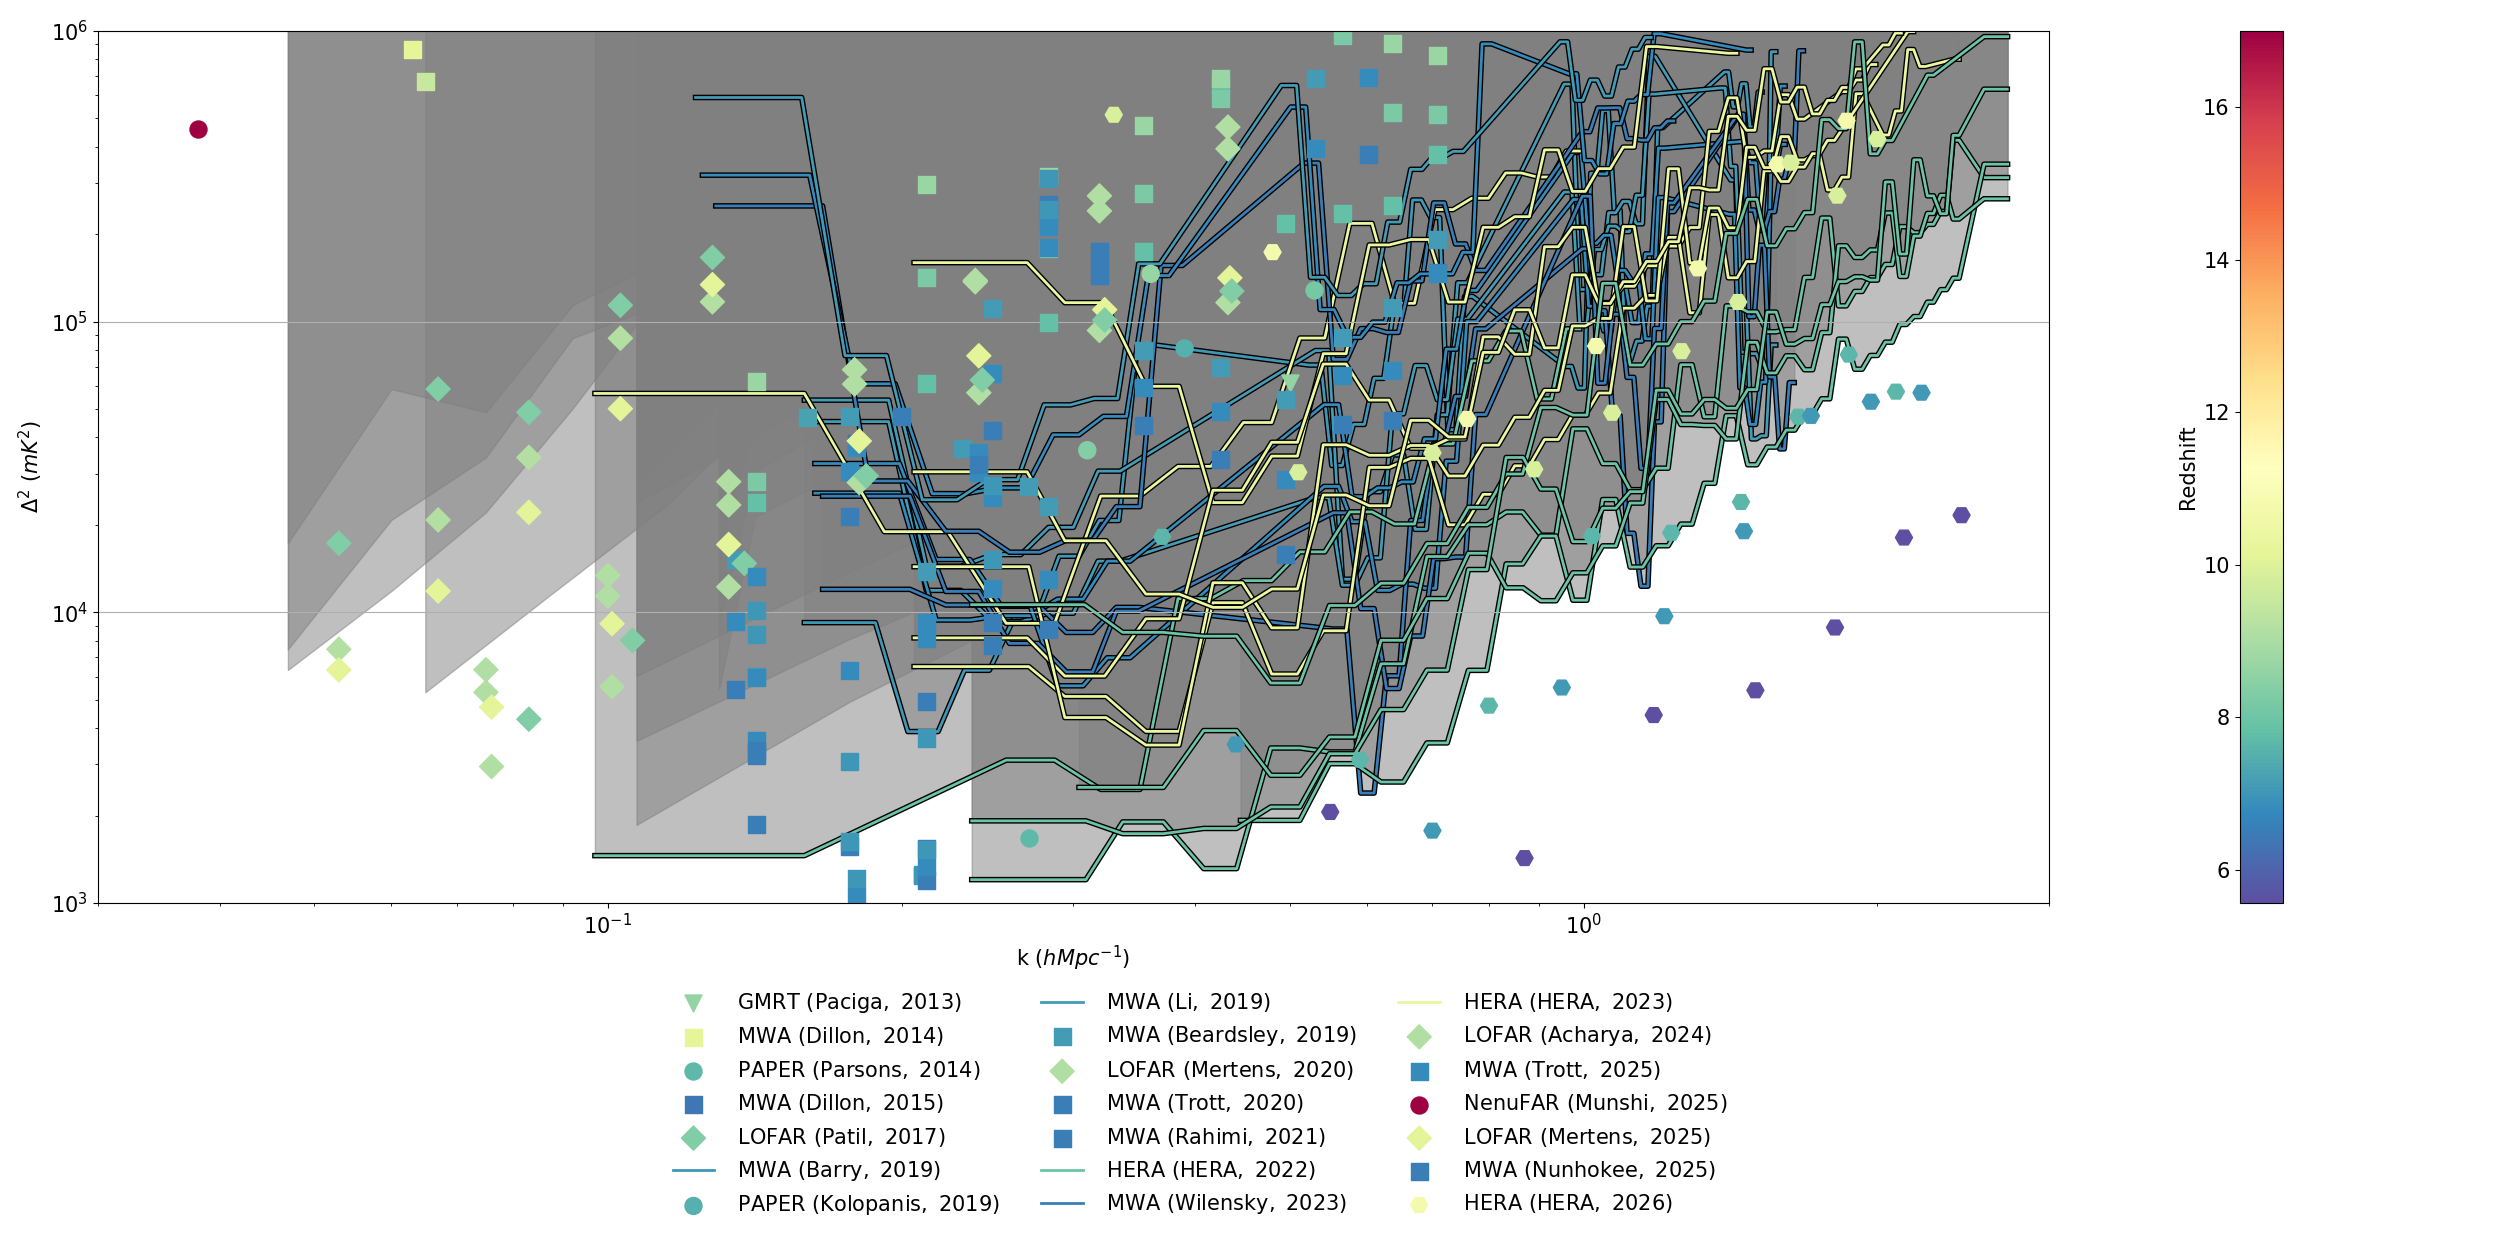
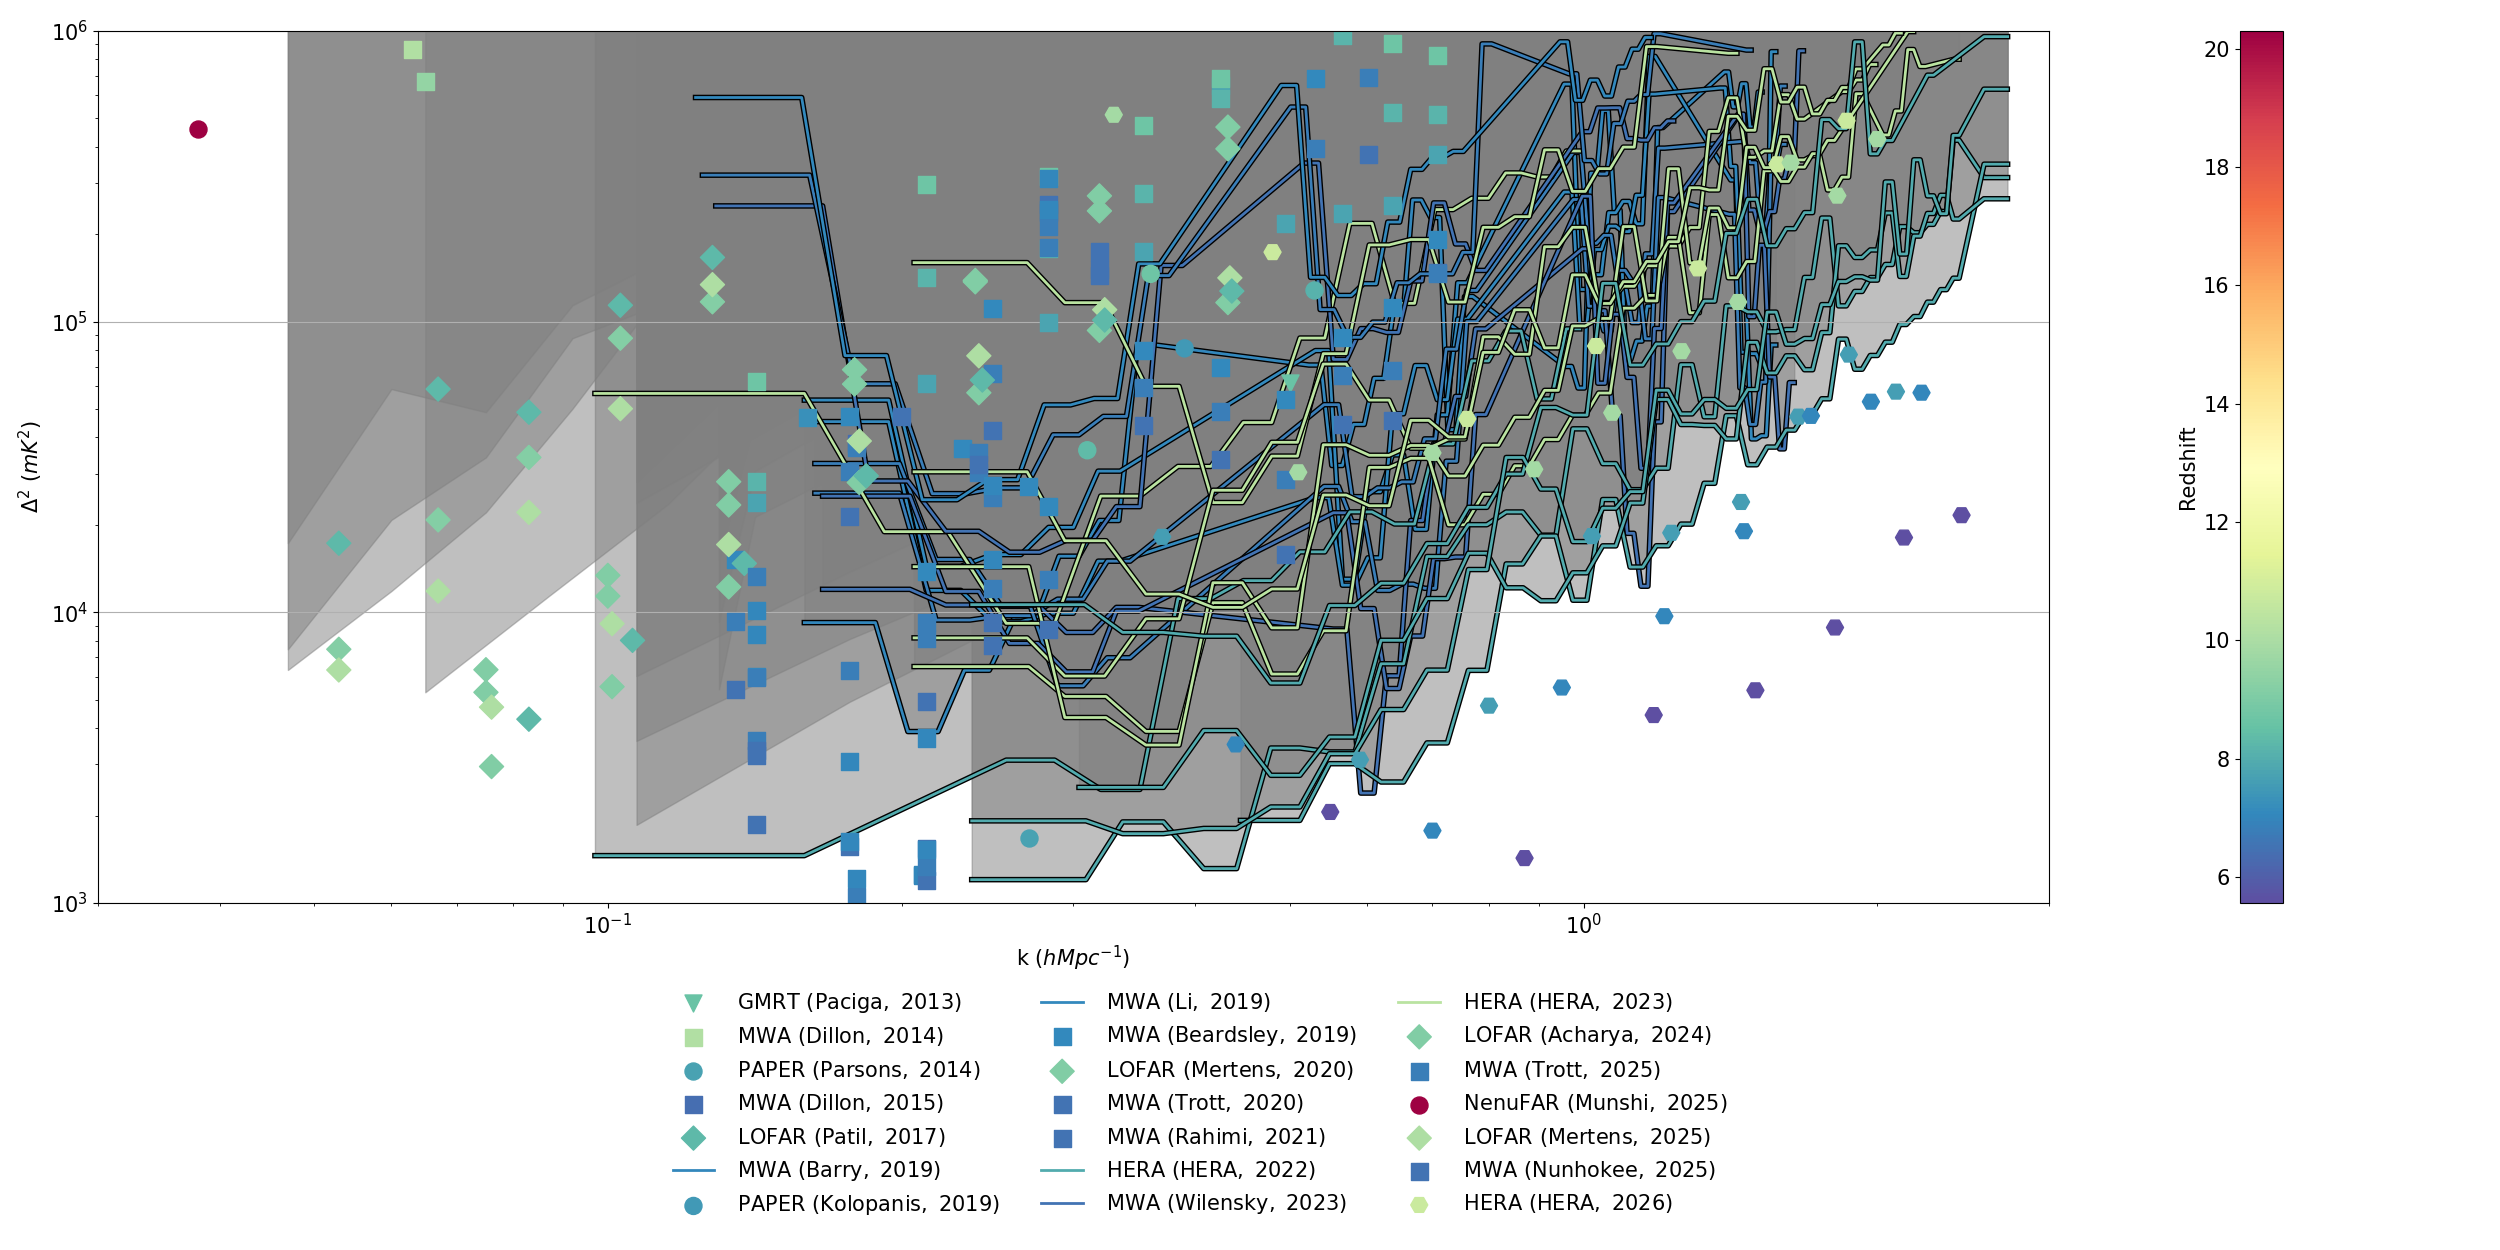
Merge pull request #7 from JitenDhandha/nenufar-hotfix
Nenufar hotfix

Pull request: Nenufar hotfix
Fixed a mistake with the latest NenuFAR limits from [Munshi+2025](https://ui.adsabs.harvard.edu/abs/2025MNRAS.542.2785M/abstract), kindly pointed out by Satyapan Munshi. The $z=20.3$ and $z=17.0$ limits were swapped, and the $k$-modes for the latter are slightly different.

## Summary by Sourcery

Correct NenuFAR limit data from Munshi et al. 2025 and adjust development installation instructions for uv users.

Bug Fixes:
- Fix swapped redshift values and incorrect k-mode entries in the Munshi2025 NenuFAR limits dataset.

Documentation:
- Clarify uv-based editable installation command in the README for contributors.

diff --git a/README.md b/README.md
@@ -22,7 +22,7 @@ To use the code, check out the _Usage and examples_. For users who want to quick
 
 * **pip installation**: Developers who would like to contribute to the code can install the package as: ```pip install -e .``` (including the dot). This will install the package in editable mode, which allows you to make changes to the code and have them immediately reflected when you import the package.
 
-* **uv installation**: If you prefer to use `uv` to manage your environment, you can install the package in editable mode with the development dependencies using: ```uv sync --all-extras --editable .```
+* **uv installation**: If you prefer to use `uv` to manage your environment, you can install the package in editable mode with the development dependencies using: ```uv sync --all-extras --editable```
 
 * **Using pre-commit**: To use pre-commit to prevent committing code that does not follow our style, you'll need to run `pre-commit install` in the top level `eor_limits` directory.
 